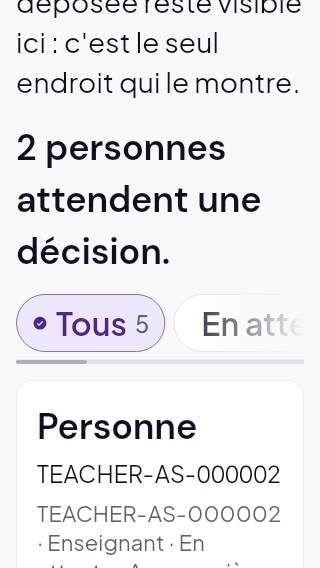
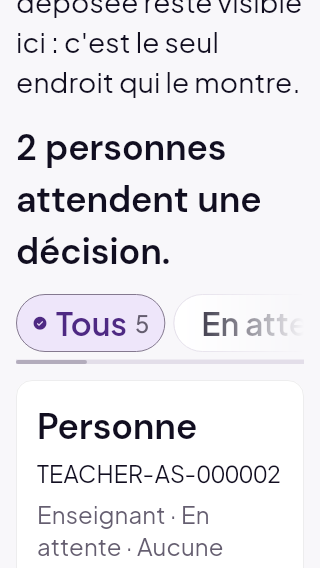
fix(comptes): l'identifiant en sous-titre ne se repete plus dans le resume
Relecture non auteur de COUPE-MOTS-FOND-1 (K-66.4) : a 320 px texte x2, la
carte d'un compte sans nom montrait « Personne », l'identifiant en
sous-titre, puis le meme identifiant en tete de la ligne de resume. La
carte de DataCollection retire du resume une valeur deja lue en tete de
carte (titre ou sous-titre), a comparaison insecable ; un titre a rendu
riche n'est pas compare. Test (2) de coupe_mots_fond_composants : une
seule occurrence de l'identifiant dans sa carte ; capture
comptes_320x2_fr_standard_identifiant regeneree.

Claude-Session: https://claude.ai/code/session_01CrHssv9YKYqFHwKA4DRRLp

Changed region(s): [[0.125, 0.868, 0.875, 1.0], [0.7188, 0.9877, 0.75, 1.0]]

diff --git a/test/garde/coupe_mots_fond_composants_test.dart b/test/garde/coupe_mots_fond_composants_test.dart
@@ -235,6 +235,28 @@ void main() {
             rendus.where((String t) => t.contains('TEACHER\u2011AS\u2011')),
             isNotEmpty,
           );
+          // Relecture : l'identifiant passe en sous-titre n'est pas repete
+          // en tete de la ligne de resume. Une seule fois dans sa carte.
+          final Finder carteId = find.ancestor(
+            of: find.text('TEACHER\u2011AS\u2011000002'),
+            matching: find.byType(AppCard),
+          );
+          expect(carteId, findsOneWidget);
+          final List<String> textesCarteId = find
+              .descendant(of: carteId, matching: find.byType(RichText))
+              .evaluate()
+              .map(
+                (Element e) =>
+                    (e.renderObject! as RenderParagraph).text.toPlainText(),
+              )
+              .toList();
+          expect(
+            textesCarteId.where(
+              (String t) => t.contains('TEACHER\u2011AS\u2011000002'),
+            ),
+            hasLength(1),
+            reason: textesCarteId.join(' | '),
+          );
           expect(identifiantsCoupes(tester, textesVisibles()), isEmpty);
           // Comptes n'est pas traduit en arabe : la ligne visuelle RTL n'est
           // pas lue (repli francais, `ecransTraduitsEnArabe`).

diff --git a/test/capture/coupe_mots_fond_1_capture_test.dart b/test/capture/coupe_mots_fond_1_capture_test.dart
@@ -154,7 +154,8 @@ void main() {
 
     // (2) Comptes a 320 texte x2 : la carte dont l'identifiant est le titre
     // (« TEACHER-AS-000002 », sans nom) garde un titre a la taille des
-    // autres ; l'identifiant passe en sous-titre, entier.
+    // autres ; l'identifiant passe en sous-titre, entier, une seule fois
+    // (il ne se repete pas en tete du resume).
     testWidgets('comptes_320x2_fr_standard_identifiant', (
       WidgetTester tester,
     ) async {
@@ -191,6 +192,16 @@ void main() {
       );
       await stabiliser(tester);
       expect(defautsDeTexte(tester), isEmpty);
+      // L'identifiant en sous-titre n'est pas repete dans le resume.
+      expect(
+        find.descendant(
+          of: find
+              .ancestor(of: carte.first, matching: find.byType(AppCard))
+              .first,
+          matching: find.textContaining('TEACHER‑AS‑000002'),
+        ),
+        findsOneWidget,
+      );
       await capturer(tester, 'comptes_320x2_fr_standard_identifiant');
     });
   });

diff --git a/lib/core/widgets/data_collection.dart b/lib/core/widgets/data_collection.dart
@@ -630,8 +630,20 @@ class _Carte<T> extends StatelessWidget {
     // `tool/verifier_jetons.dart`, et le tiret court se confond avec un
     // signe moins dans une colonne de chiffres. DUREE-INSECABLE-4 :
     // [enchainer] ne garde l'ancre de sens (U+200E) qu'en tete de la ligne.
+    //
+    // Relecture de COUPE-MOTS-FOND-1 : une valeur deja lue en tete de carte
+    // (titre, ou sous-titre quand l'identifiant n'y tient pas : « Personne »
+    // puis « TEACHER-AS-000002 ») ne se repete pas en tete du resume.
+    final String? enTete = titre != null && titre.rendu == null
+        ? identifiantsInsecables(titre.texte(ligne)).trim()
+        : null;
     final String resume = enchainer(
-      secondaires.map((ColonneDonnees<T> c) => c.texte(ligne)),
+      secondaires
+          .map((ColonneDonnees<T> c) => c.texte(ligne))
+          .where(
+            (String v) =>
+                enTete == null || identifiantsInsecables(v).trim() != enTete,
+          ),
       ' · ',
     );
 
